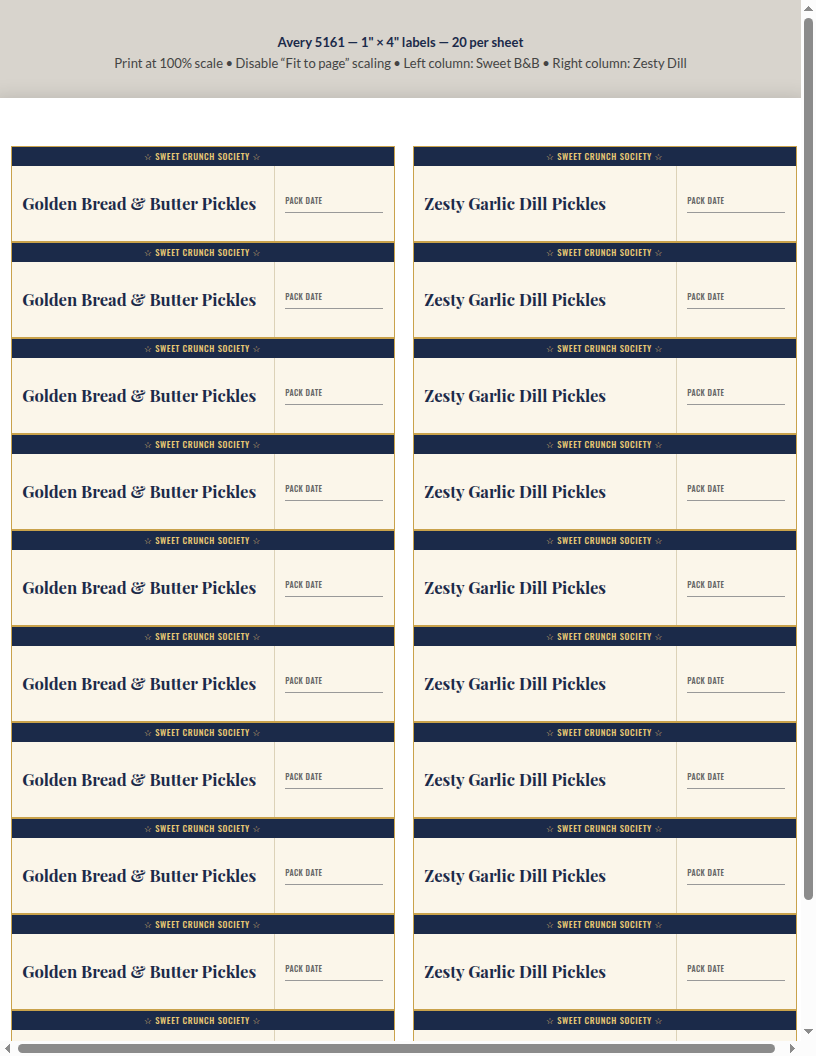
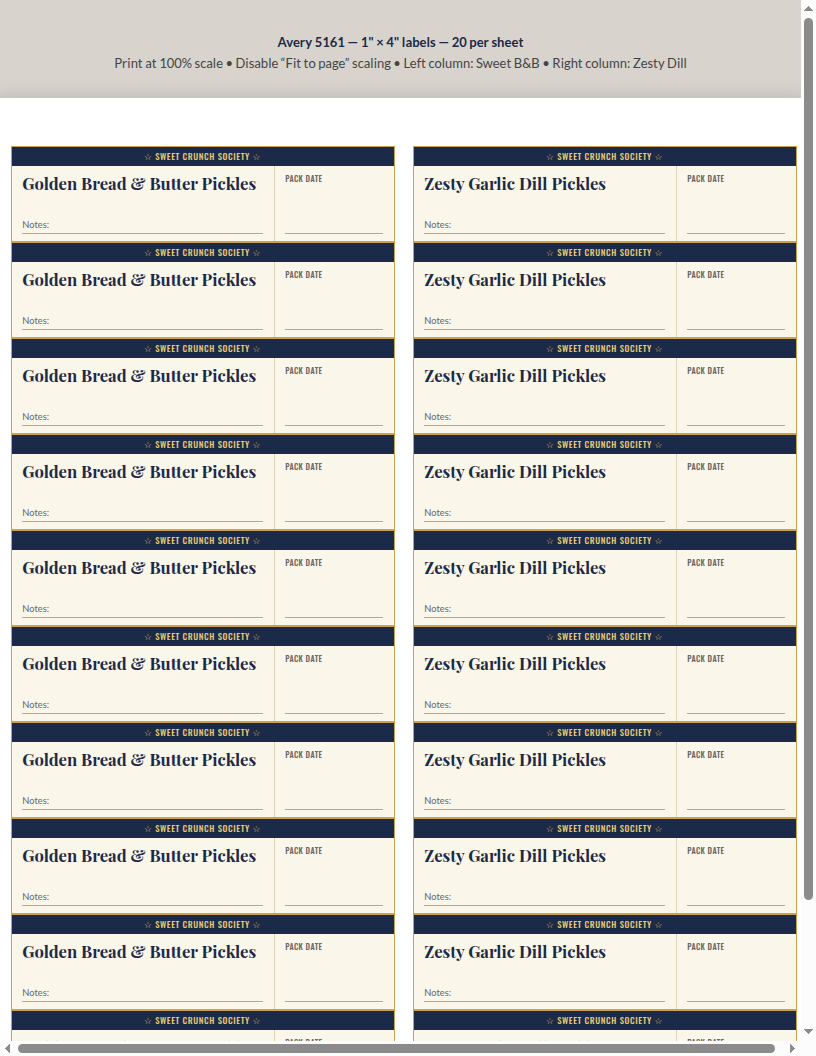
style: top-align Pack Date, add Notes line below pickle type
Type name sits at top of left panel; Notes write-on line anchors to
bottom. Pack Date label moves to top of right panel with write line
at the bottom, maximizing the date writing area.

diff --git a/label-5161.html b/label-5161.html
@@ -81,15 +81,27 @@
       overflow: hidden;
     }
 
-    .label-type {
+    .label-left {
       flex: 1;
+      display: flex;
+      flex-direction: column;
+      padding: 4pt 8pt 5pt;
+    }
+
+    .label-type {
       color: var(--navy);
       font-family: 'Playfair Display', serif;
       font-weight: 700;
       font-size: 12.5pt;
-      padding: 4pt 8pt;
-      display: flex;
-      align-items: center;
+    }
+
+    .label-notes {
+      margin-top: auto;
+      color: #666;
+      font-family: 'Lato', sans-serif;
+      font-size: 7pt;
+      padding-bottom: 2pt;
+      border-bottom: 0.75pt solid #aaa;
     }
 
     .label-date {
@@ -98,9 +110,7 @@
       border-left: 0.5pt solid var(--line);
       display: flex;
       flex-direction: column;
-      justify-content: center;
-      padding: 4pt 8pt;
-      gap: 4pt;
+      padding: 4pt 8pt 5pt;
     }
 
     .label-date-label {
@@ -113,7 +123,8 @@
     }
 
     .label-date-line {
-      border-bottom: 0.75pt solid #999;
+      margin-top: auto;
+      border-bottom: 0.75pt solid #aaa;
       width: 100%;
     }
 
@@ -155,7 +166,10 @@
           <div class="label label-${label.col}">
             <div class="label-brand">&#9734; Sweet Crunch Society &#9734;</div>
             <div class="label-body">
-              <div class="label-type">${label.type}</div>
+              <div class="label-left">
+                <div class="label-type">${label.type}</div>
+                <div class="label-notes">Notes:</div>
+              </div>
               <div class="label-date">
                 <div class="label-date-label">Pack Date</div>
                 <div class="label-date-line"></div>
